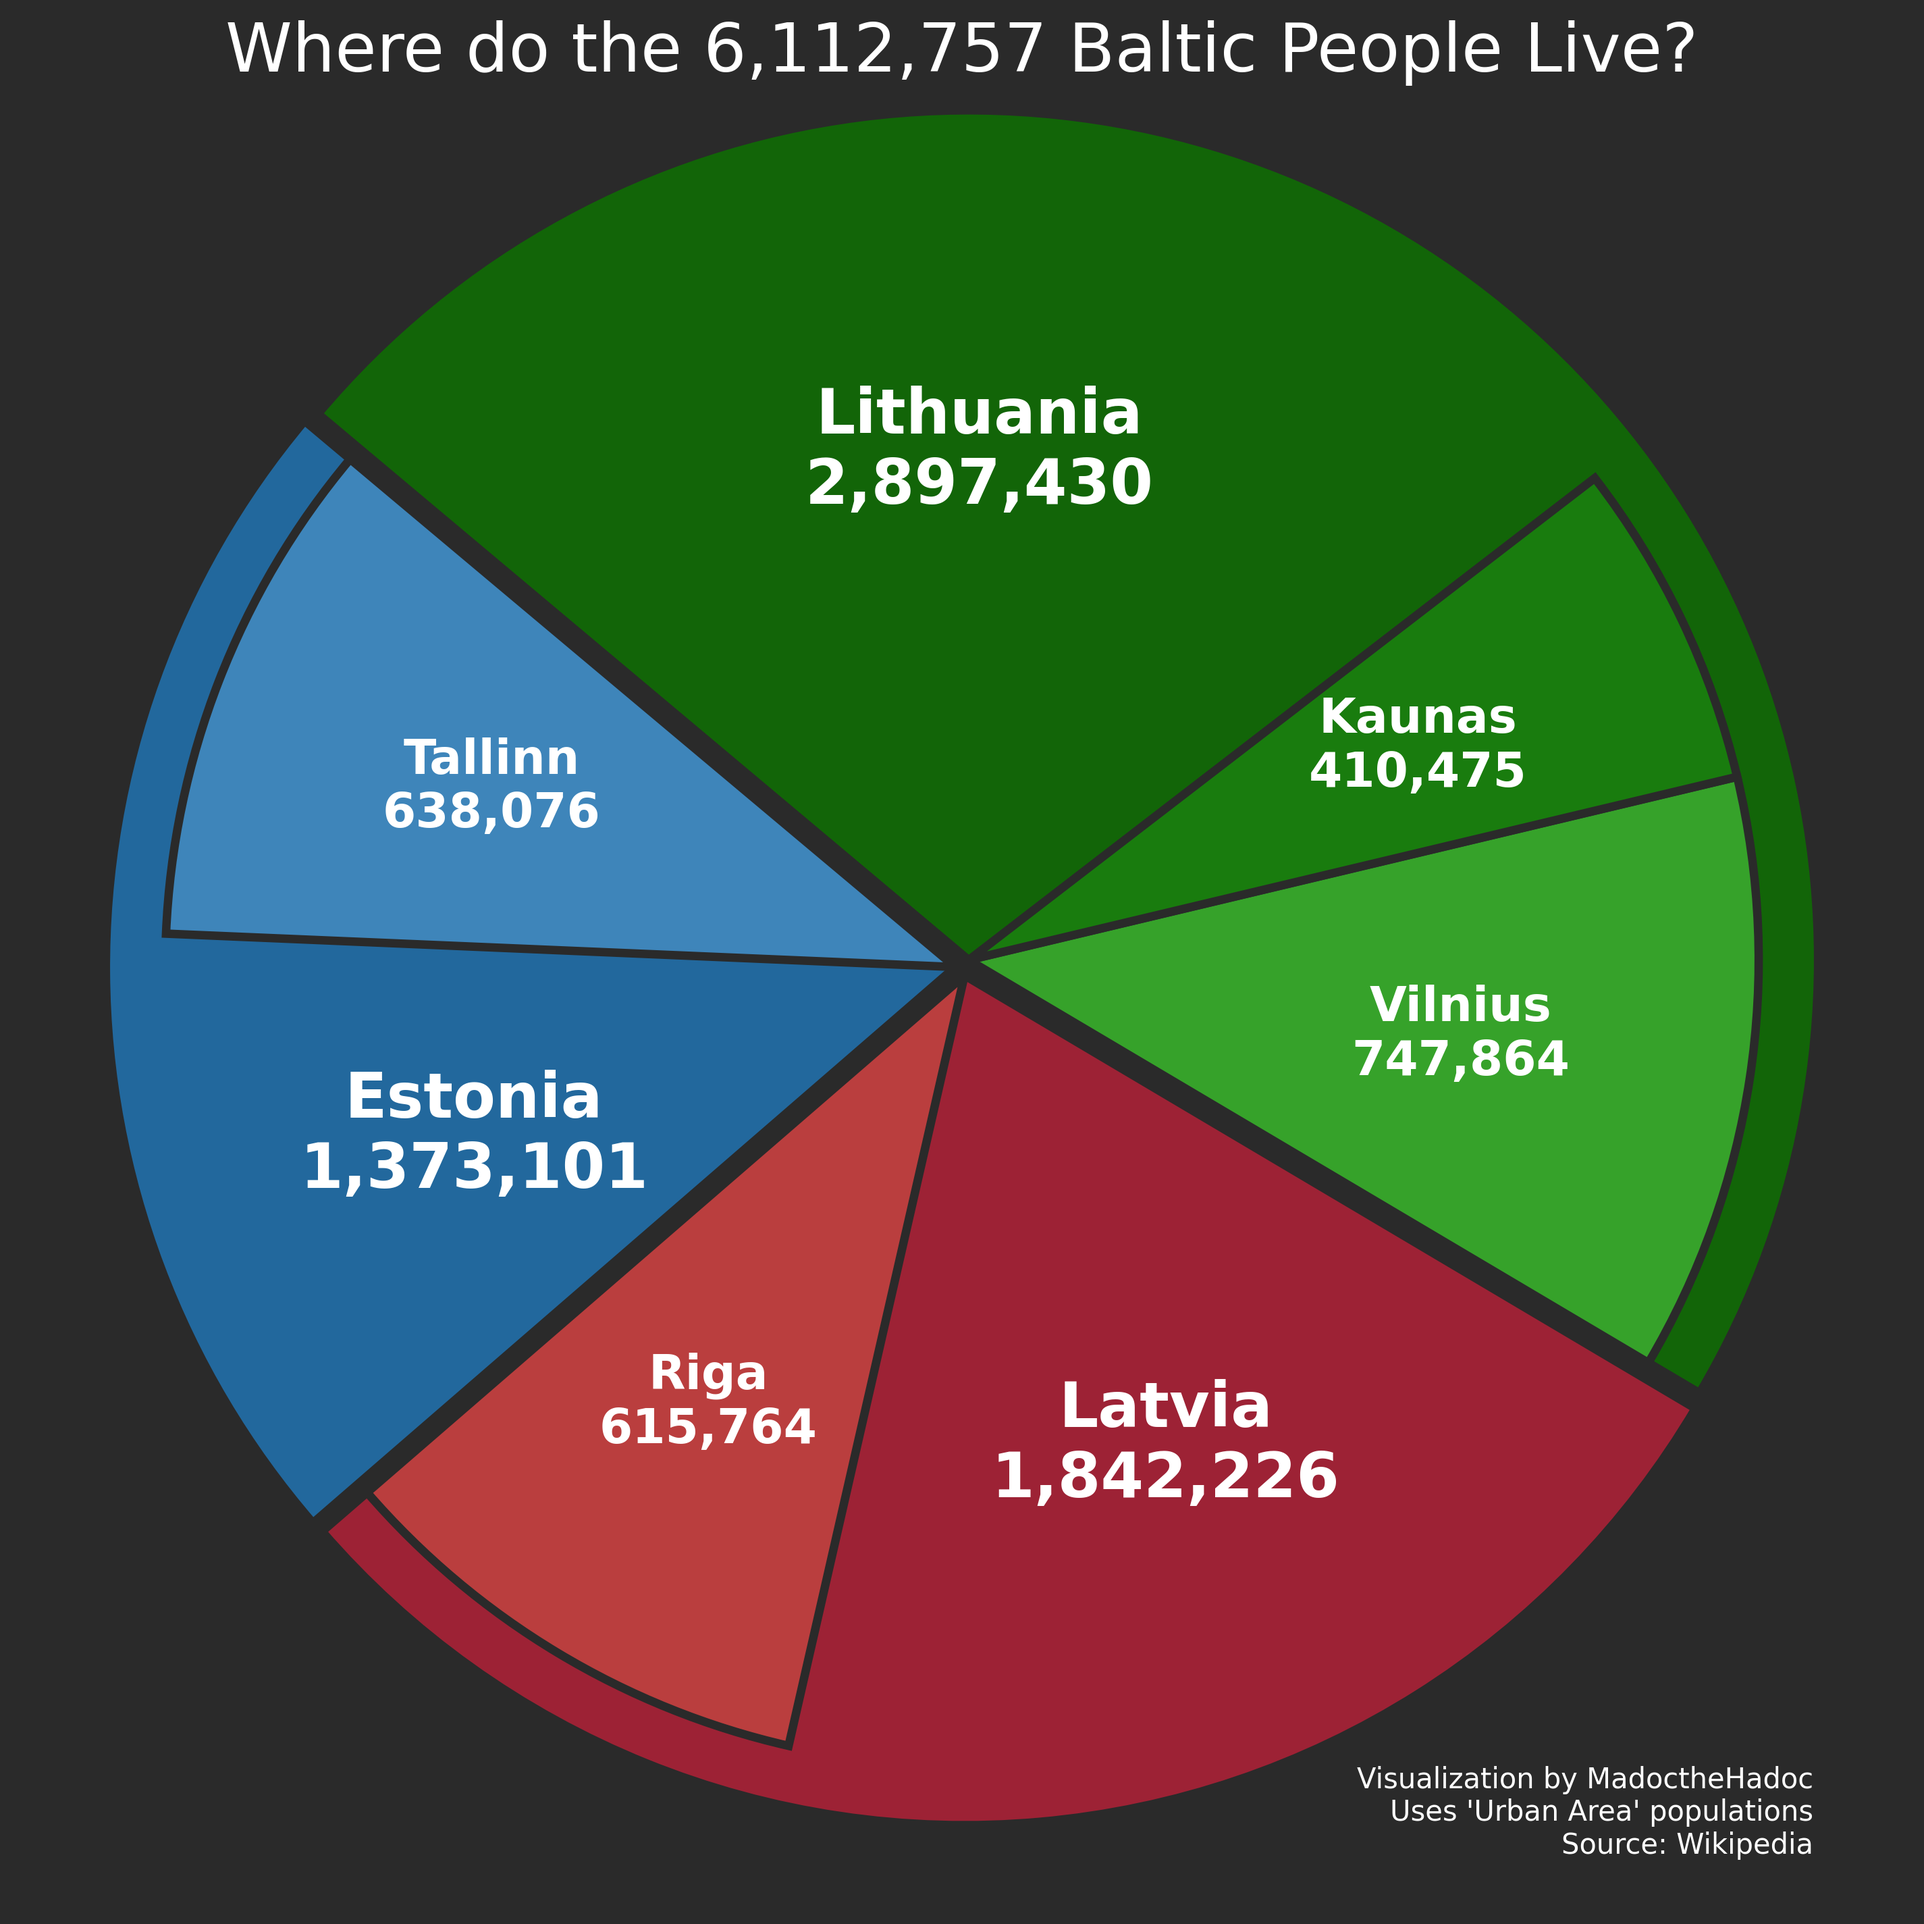
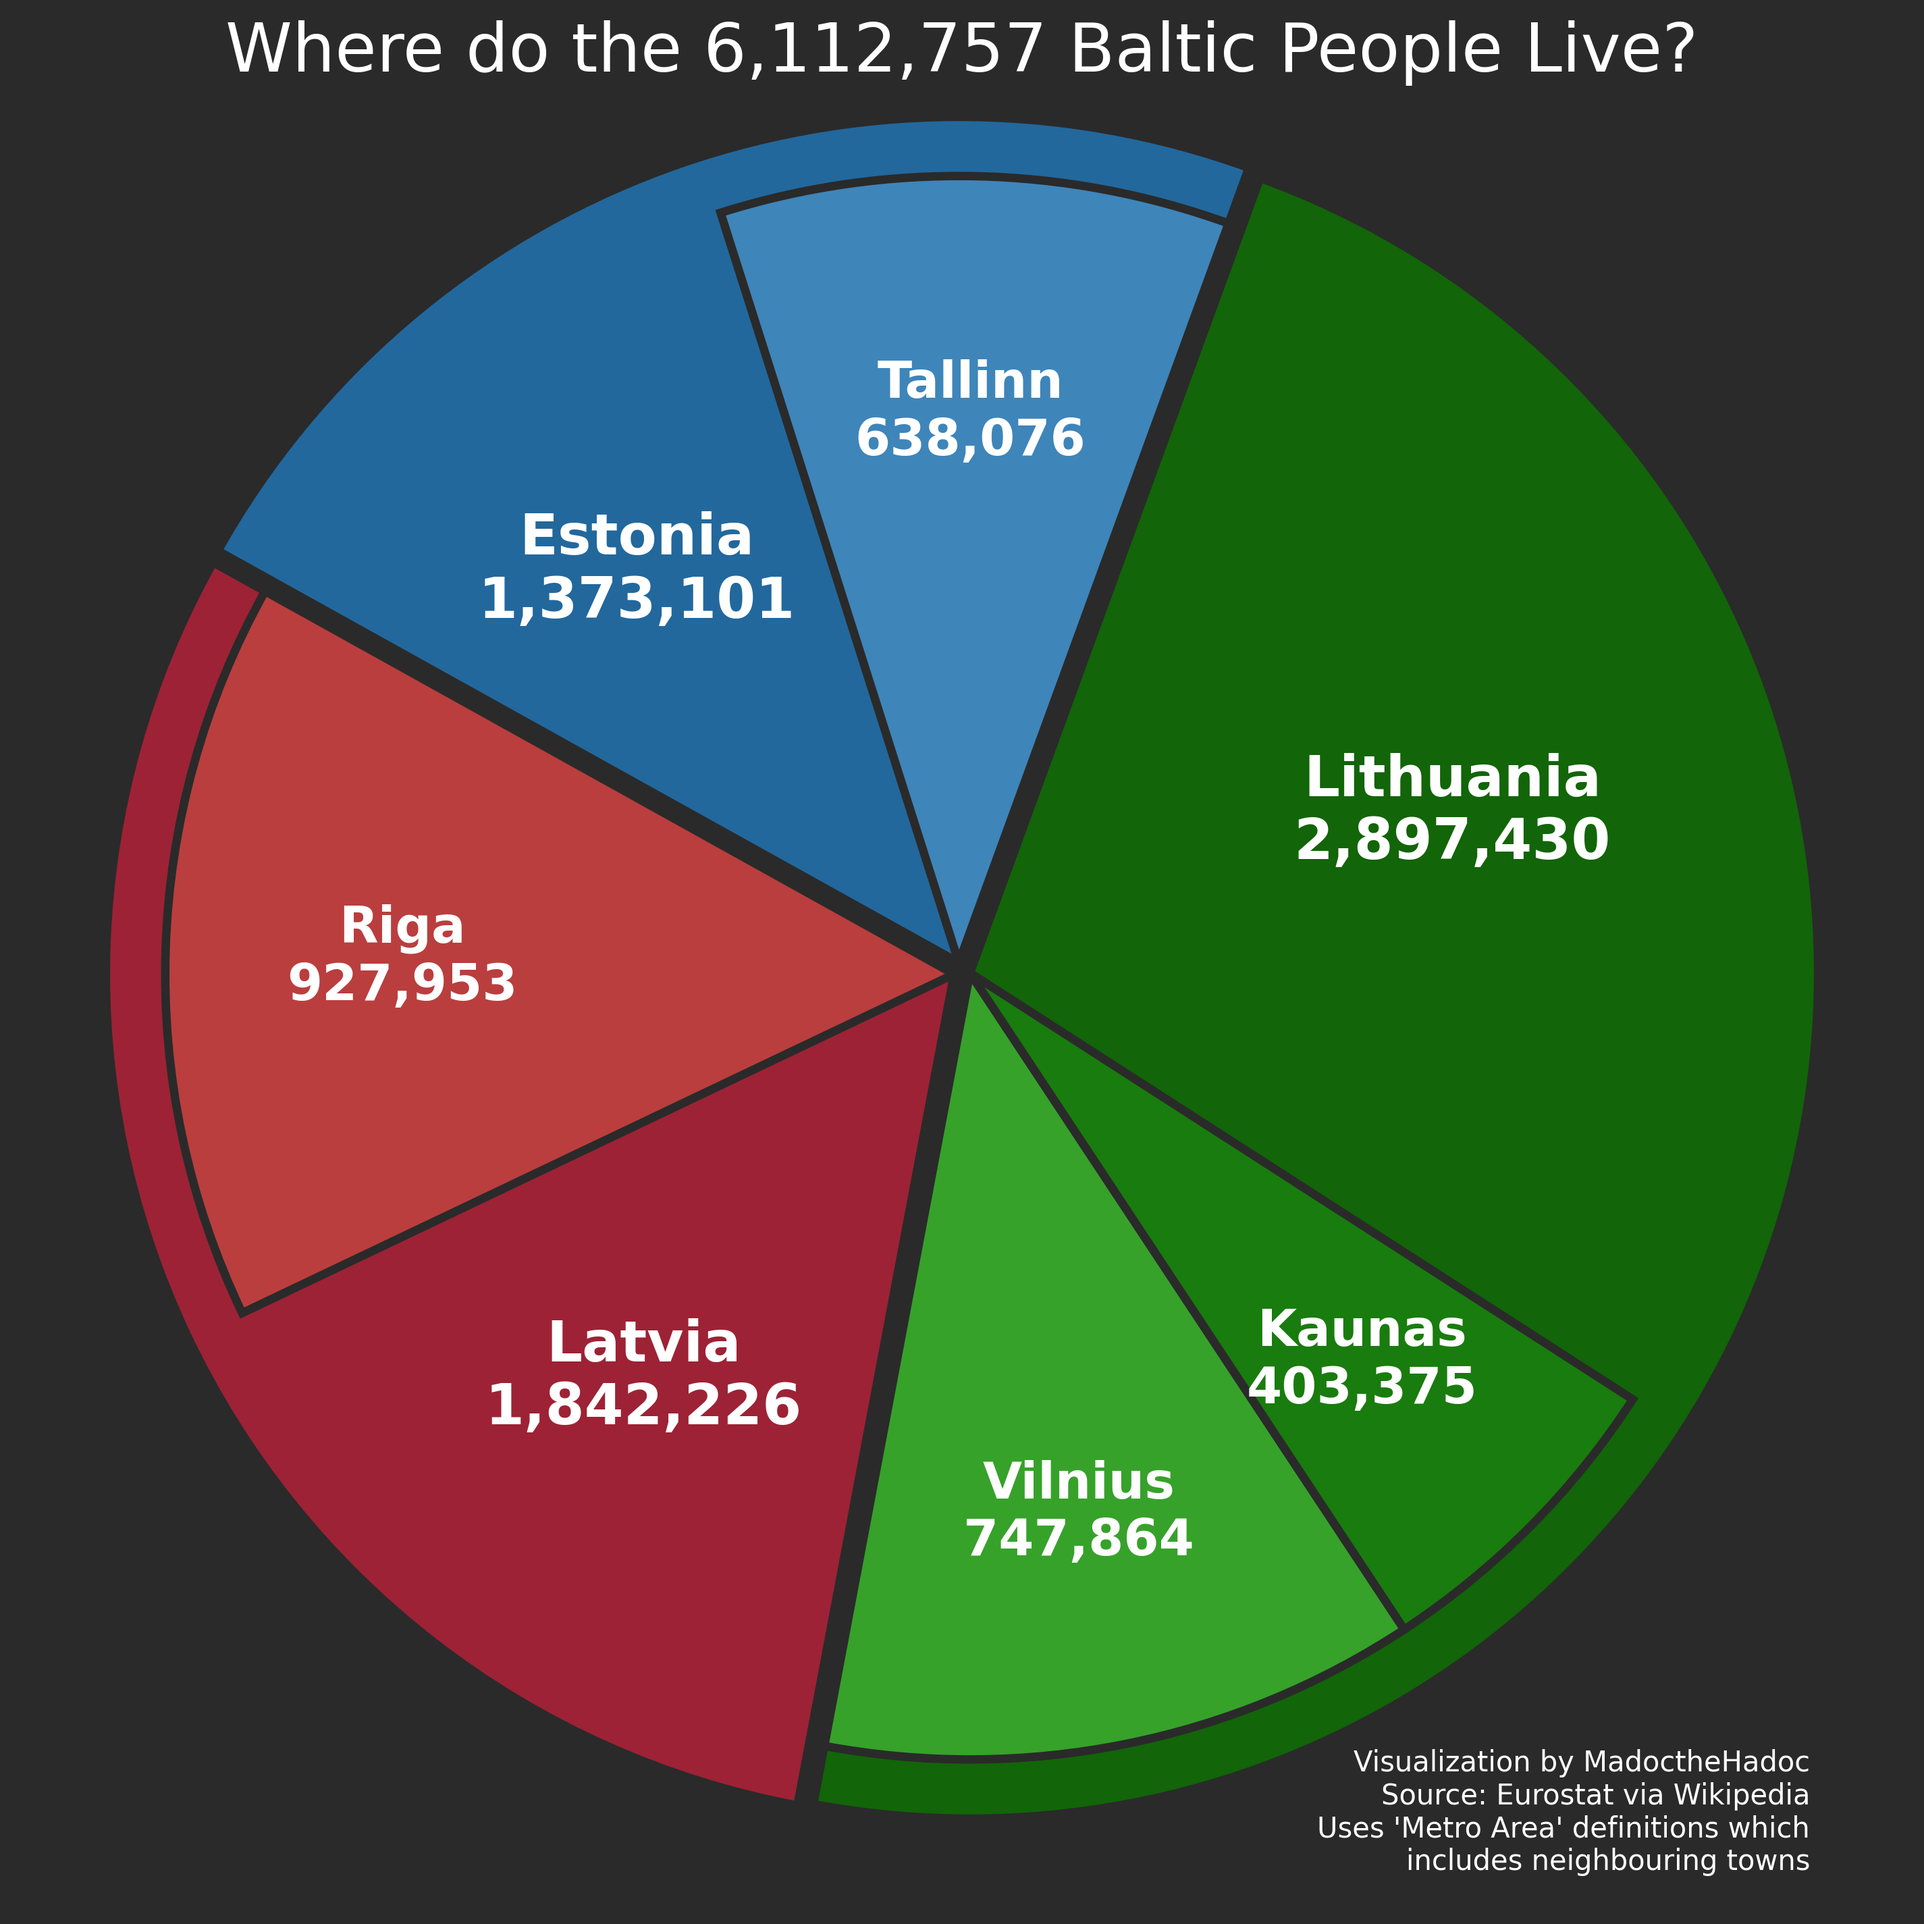
Country Group Chart changes.

diff --git a/scripts/CountryGroupPopulation.py b/scripts/CountryGroupPopulation.py
@@ -5,24 +5,106 @@ import numpy as np
 # ==================== STYLE CONSTANTS ====================
 BG_COLOR = '#2a2a2a'
 
+# Collapse text
+COLLAPSE = False
+
 # Define editable color palette
-CITY_COLORS = [
+BALTIC_COLORS = [
     "#22689d", "#3e85ba",  # Estonia (Tallinn, rest)
     "#9d2235", "#ba3e3e",  # Latvia (Riga, rest)
     "#126508", "#36a22a", "#197c0e"  # Lithuania (Vilnius, Kaunas, rest)
 ]
 
+SCANDINAVIAN_COLORS = [
+    "#22689d", "#3e85ba",  # Finland
+    "#72750B", "#b6b238", "#9d9922",  # Sweden
+    "#197c0e", "#36a22a",  # Norway
+    "#9d2235", "#c54747",  # Denmark
+]
+
+BENELUX_COLORS = [
+    "#22689d", "#65a4d5", "#3e85ba",  # Belgium
+    "#9d7222", "#e2b67c", "#d7a061", "#c18e46",  # Netherlands
+    "#29a22f"  # Luxembourg
+]
+
+YUGOSLAV_COLORS = [
+    "#22689d", "#3e85ba",  # Serbia (Belgrade, rest)
+    "#9d2235", "#ba3e3e",  # Croatia (Zagreb, rest)
+    "#197c0e", "#36a22a",  # Bosnia & Herzegovina (Sarajevo, rest)
+    "#84880F", "#afab30",  # Slovenia (Ljubljana, rest)
+    "#8438ac", "#a75fcd",  # North Macedonia
+    "#ac7a38", "#cd925f",  # Albania
+    "#47c1c5",              # Montenegro
+    "#8fbb4c"               # Kosovo
+]
+
 # ==================== DATA ====================
+
+YUGOSLAV_POPULATIONS = [
+    {'countries': 'Serbia', 'population': 6617200, 'cities': [
+        ('Belgrade', 1681405)  # Metro
+    ]},
+    {'countries': 'Croatia', 'population': 3861967, 'cities': [
+        ('Zagreb', 1086528)  # Metro
+    ]},
+    {'countries': 'Bosnia and\nHerzegovina', 'population': 2904256, 'cities': [
+        ('Sarajevo', 555210)  # Metro
+    ]},
+    {'countries': 'Slovenia', 'population': 2130850, 'cities': [
+        ('Ljubljana', 569475)  # Metro
+    ]},
+    {'countries': 'North\nMacedonia', 'population': 1836713, 'cities': [
+        ('Skopje', 526502)  # Metro
+    ]},
+    {'countries': 'Albania', 'population': 2402113, 'cities': [
+        ('Tirana', 800986)
+    ]},
+    {'countries': 'Kosovo', 'population': 1585566, 'cities': [
+    ]},
+    {'countries': 'Mont.', 'population': 623327, 'cities': [
+    ]}
+]
+
+BENELUX_POPULATIONS = [
+    {'countries': 'Belgium', 'population': 11742796, 'cities': [
+        ('Brussels', 3398857),
+        ('Antwerp', 1172740)
+    ]},
+    {'countries': 'Netherlands', 'population': 17811291, 'cities': [
+        ('Amsterdam', 2961252),
+        ('Rotterdam', 1880019),
+        ('Den Haag', 1150797)
+    ]},
+    {'countries': 'Lux.', 'population': 681973, 'cities': []}
+]
+
 BALTIC_POPULATIONS = [
     {'countries': 'Estonia', 'population': 1373101, 'cities': [
         ('Tallinn', 638076)
     ]},
     {'countries': 'Latvia', 'population': 1842226, 'cities': [
-        ('Riga', 615764)
+        ('Riga', 927953)
     ]},
     {'countries': 'Lithuania', 'population': 2897430, 'cities': [
         ('Vilnius', 747864),
-        ('Kaunas', 410475)
+        ('Kaunas', 403375)
+    ]}
+]
+
+SCANDINAVIAN_POPULATIONS = [
+    {'countries': 'Finland', 'population': 5635971, 'cities': [
+        ('Helsinki', 1616656)
+    ]},
+    {'countries': 'Sweden', 'population': 10588230, 'cities': [
+        ('Stockholm ', 2415139),
+        ('Gothenburg', 1080980)
+    ]},
+    {'countries': 'Norway', 'population': 5601049, 'cities': [
+        ('Oslo', 1588457)
+    ]},
+    {'countries': 'Denmark', 'population': 6001008, 'cities': [
+        ('Copenhagen', 2135634)
     ]}
 ]
 
@@ -75,7 +157,7 @@ def plot_population_pie(ax, data, colors, explode_dist=0.01):
     - City labels formatted as 'Name - population'
     """
     total_pop = sum(c['population'] for c in data)
-    start_angle = 140
+    start_angle = 70
     current_angle = start_angle
 
     wedges = []
@@ -132,13 +214,13 @@ def plot_population_pie(ax, data, colors, explode_dist=0.01):
 
             # City label formatted with commas
             mid_theta = (city_start_angle + city_start_angle + city_angle) / 2
-            label_r = inner_radius * 0.63
+            label_r = inner_radius * 0.7
             label_x = offset_x + label_r * np.cos(np.radians(mid_theta))
             label_y = offset_y + label_r * np.sin(np.radians(mid_theta))
             city_name, ignored = city
-            ax.text(label_x, label_y, f"{city_name}\n{pop:,}", color="white",
-                    ha="center", va="center", fontsize=17, fontweight='bold')
-
+            pop_text = f"{pop:,}" if COLLAPSE else f"{pop/1000:,.0f}K"
+            ax.text(label_x, label_y, f"{city_name}\n{pop_text}", color="white",
+                ha="center", va="center", fontsize=16, fontweight='bold')
             city_start_angle += city_angle
 
         # Country label in remaining empty section
@@ -148,7 +230,7 @@ def plot_population_pie(ax, data, colors, explode_dist=0.01):
             label_r_country = 0.6 # inside the empty portion of country
             label_x_country = offset_x + label_r_country * np.cos(np.radians(empty_mid_angle))
             label_y_country = offset_y + label_r_country * np.sin(np.radians(empty_mid_angle))
-            country_pop = next(c['population'] for c in BALTIC_POPULATIONS if c['countries'] == country_name)
+            country_pop = next(c['population'] for c in data if c['countries'] == country_name)
             ax.text(label_x_country, label_y_country, f"{country_name}\n{country_pop:,}",
                     color="white", ha="center", va="center", fontsize=22, fontweight='bold')
 
@@ -168,33 +250,42 @@ def get_group_mid_angle(explode_groups, sizes, group, start_angle, total):
     end = start_angle + sum(sizes[:group_indices[-1]+1]) / total * 360
     return (start + end) / 2
 
-def style_chart(ax):
+def style_chart(ax, populations, people):
     """Apply chart title and style adjustments."""
     # Calculate total population
-    total_population = sum(c['population'] for c in BALTIC_POPULATIONS)
+    total_population = sum(c['population'] for c in populations)
     
     # Format with commas
     total_formatted = f"{total_population:,}"
     
     # Set title including total population and move it slightly down
-    ax.set_title(f'Where do the {total_formatted} Baltic People Live?',
+    ax.set_title(f'Where do the {total_formatted} {people} Live?',
                  color='white', fontsize=24, y=0.97) 
 
     # Add credits in smaller text at bottom-right
-    ax.text(1, -1.05, "Visualization by MadoctheHadoc\nUses 'Urban Area' populations\nSource: Wikipedia", 
+    ax.text(1, -1.07, "Visualization by MadoctheHadoc\nSource: Eurostat via Wikipedia\n" + 
+            "Uses 'Metro Area' definitions which\nincludes neighbouring towns", 
             color='white', fontsize=10, ha='right', va='bottom', alpha=1.0)
     
     plt.axis('equal')
 
 # ==================== MAIN FUNCTION ====================
-def plot_baltic_population_chart():
-    labels, sizes, explode_groups = prepare_pie_data(BALTIC_POPULATIONS)
+def plot_population_chart(populations, colors, filename, people):
+    labels, sizes, explode_groups = prepare_pie_data(populations)
     fig, ax = create_base_plot()
-    plot_population_pie(ax, BALTIC_POPULATIONS, CITY_COLORS)
-    style_chart(ax)
-    plt.savefig("visualizations/BalticPopulation.png", dpi=300, bbox_inches='tight')
+    plot_population_pie(ax, populations, colors)
+    style_chart(ax, populations, people)
+    plt.savefig(f"visualizations/{filename}Population.png", dpi=300, bbox_inches='tight')
     plt.close(fig)
 
 # ==================== EXECUTE ====================
 if __name__ == "__main__":
-    plot_baltic_population_chart()
+    plot_population_chart(
+        SCANDINAVIAN_POPULATIONS, SCANDINAVIAN_COLORS, 'Scandinavia', 'Scandinavians')
+    # plot_population_chart(
+    #     BALTIC_POPULATIONS, BALTIC_COLORS, 'Baltic', 'Baltic People')
+    # plot_population_chart(
+    #     BENELUX_POPULATIONS, BENELUX_COLORS, 'Benelux', 'Benelux People')
+    # plot_population_chart(
+    #     YUGOSLAV_POPULATIONS, YUGOSLAV_COLORS, 'WestBalkan', 'West Balkan People')
+
